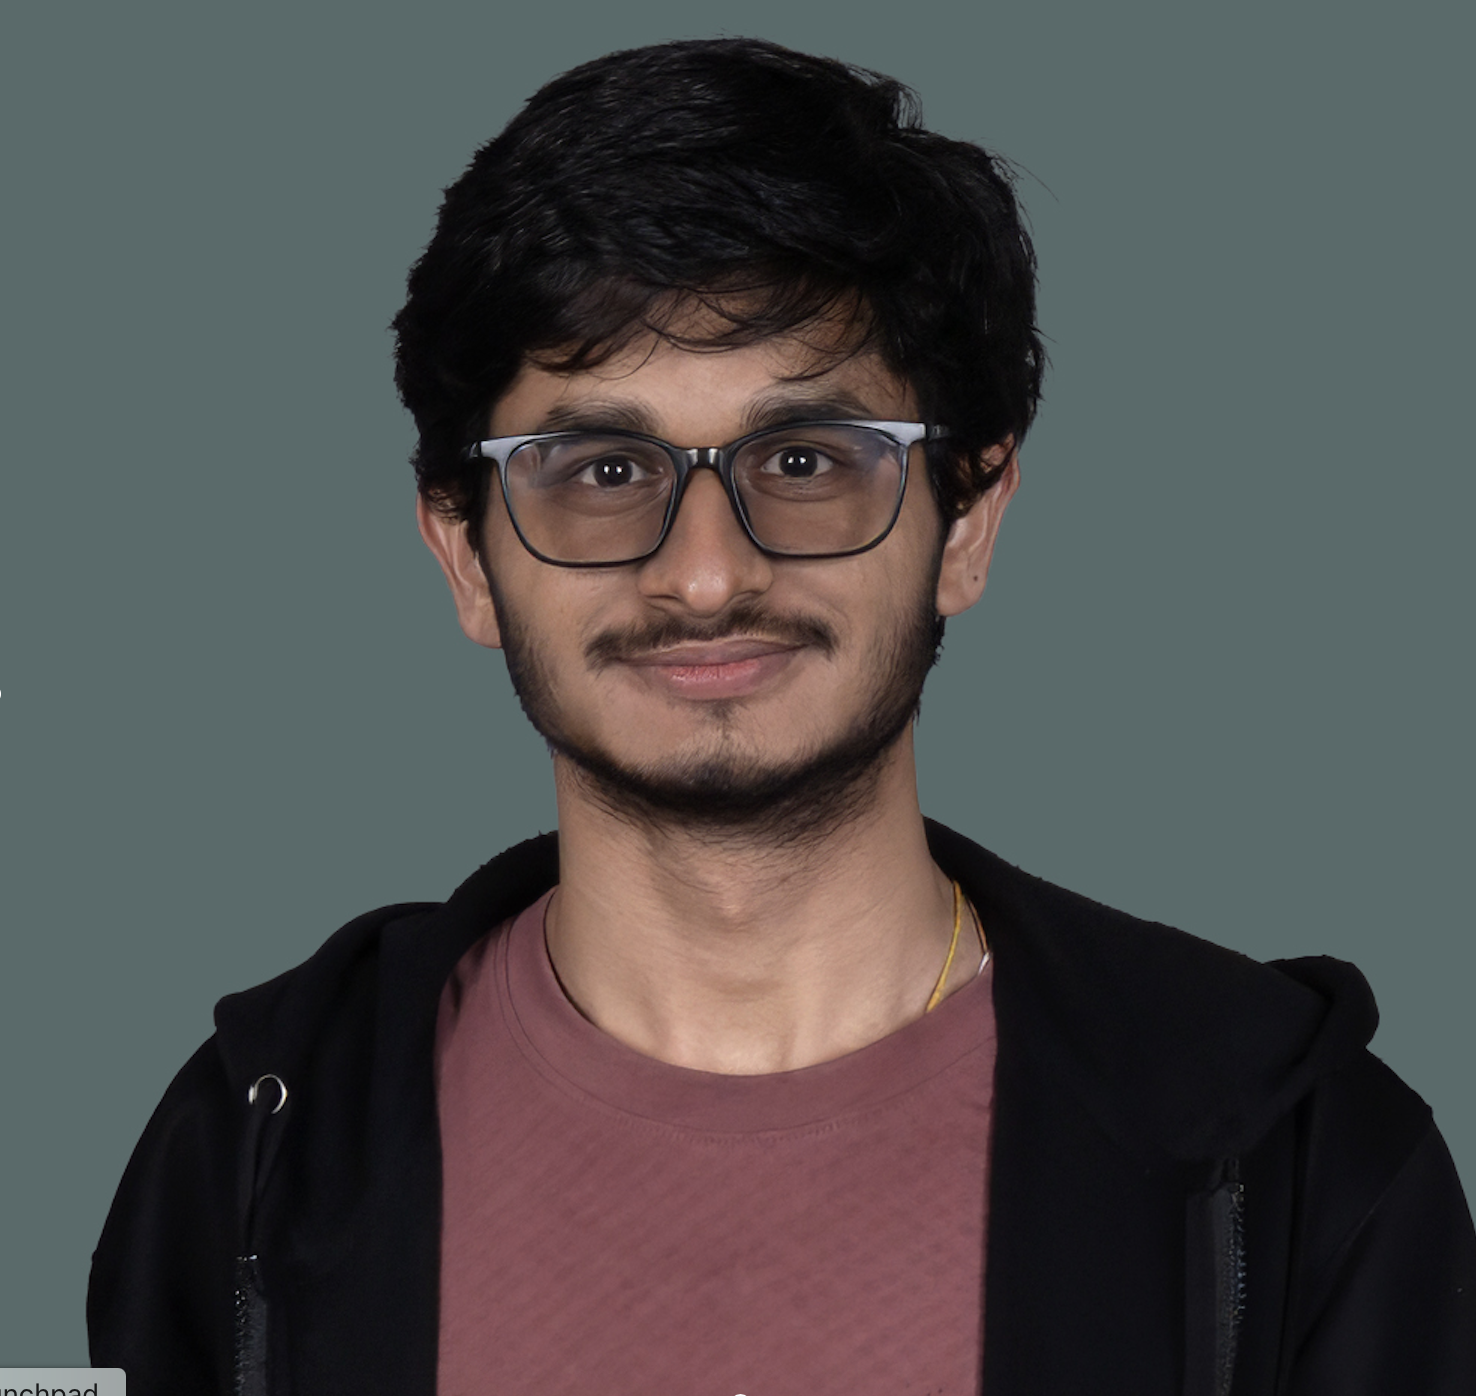
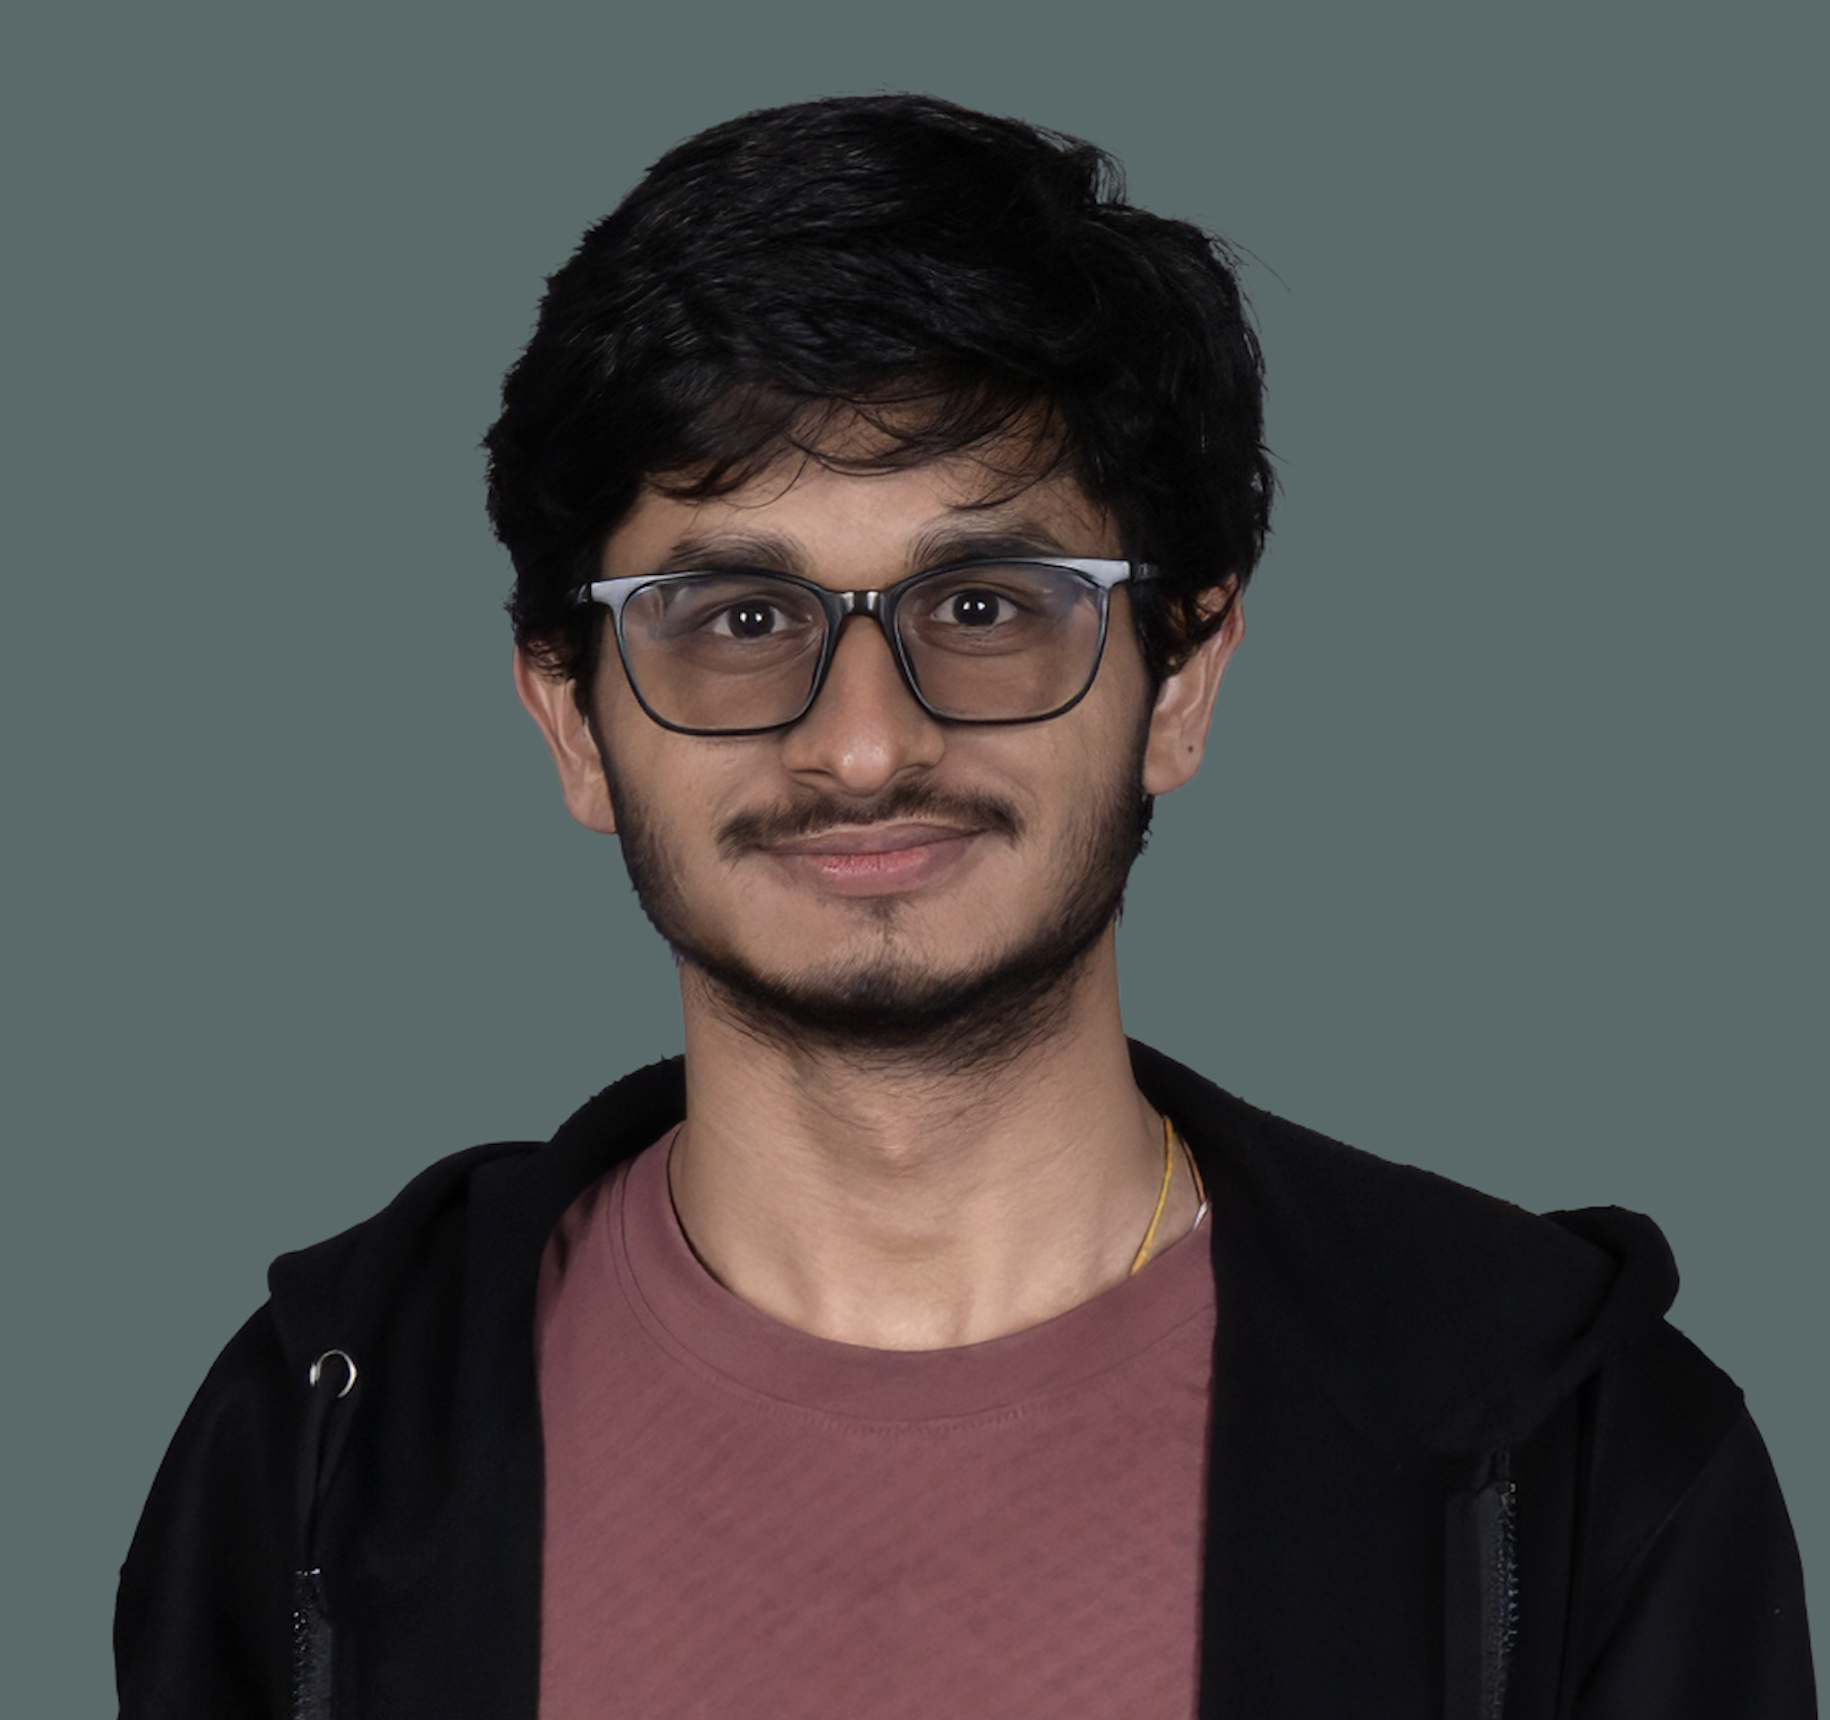
img

diff --git a/_pages/resume.md b/_pages/resume.md
@@ -16,7 +16,7 @@ custom_js:
     <div class="resume-hero">
       <div class="resume-card">
         <div class="resume-profile">
-          <img src="{{ '/images/image_copy.png' | relative_url }}" alt="Praveen Shukla" class="resume-avatar">
+          <img src="{{ '/images/image.png' | relative_url }}" alt="Praveen Shukla" class="resume-avatar">
           <div>
             <p class="resume-name">Praveen Shukla</p>
             <p class="resume-headline">Artificial Intelligence &amp; Data Science @ MBZUAI</p>
